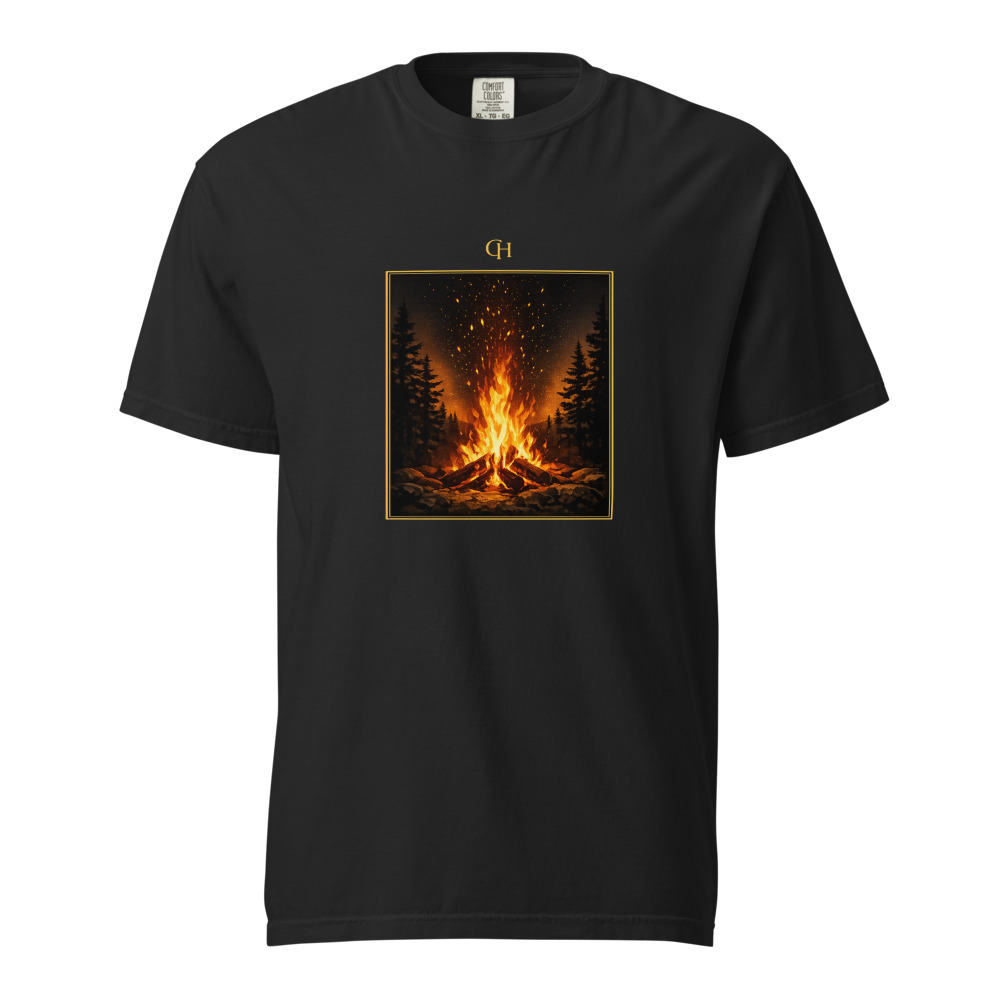
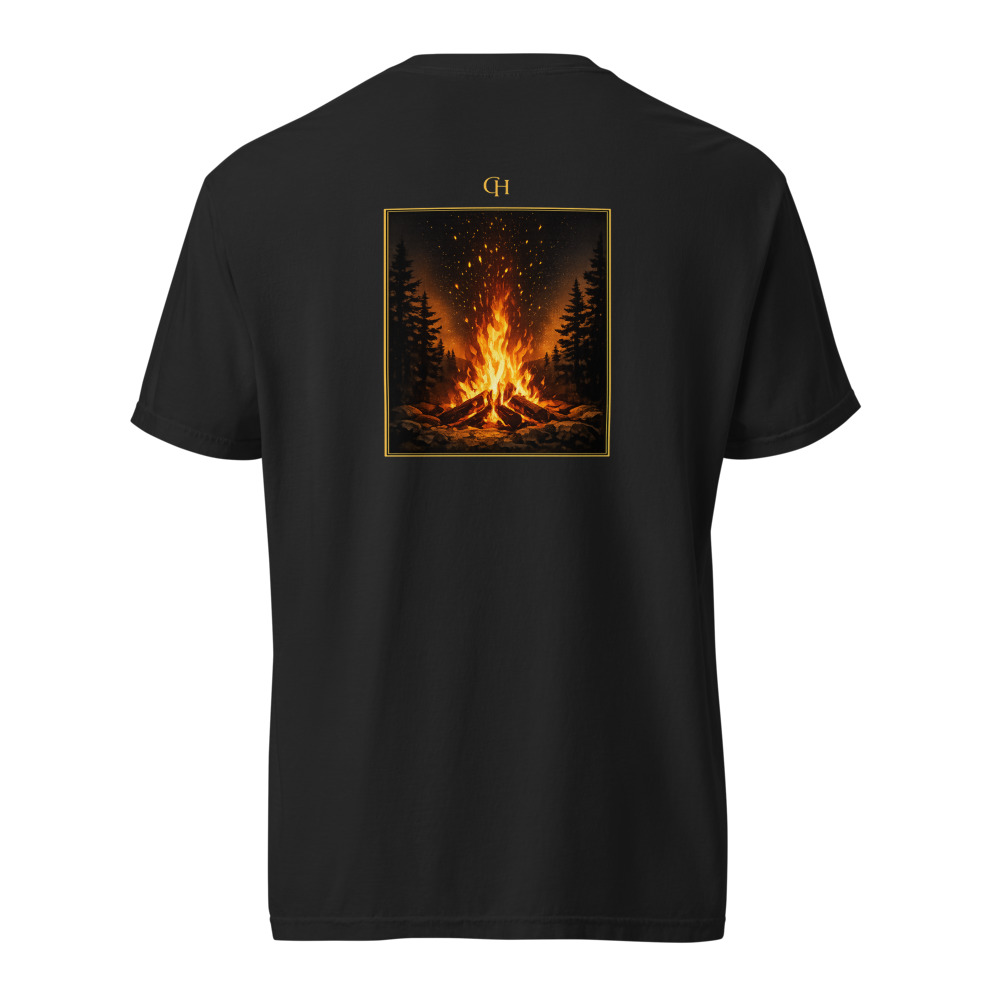
Re-sync Live Each Day hoodie and Scenic Back tee as back prints
Both products are designed as full-back graphics per their descriptions
(sunset-and-dirt-road; framed bonfire), but the initial sync placed the
artwork on the front. The mockups looked wrong and the printed garments
would have shipped with the design on the chest instead of the back.

Fix the script to accept --placement <name> (default "front"), thread it
through generateMockups and createOrFetchSyncProduct, and rename the
printfile lookup to be placement-agnostic. Delete the two front-placed
sync products in Printful, re-run with --placement back. Sync product IDs
in mock-data.ts updated accordingly.

diff --git a/src/lib/mock-data.ts b/src/lib/mock-data.ts
@@ -64,6 +64,14 @@ export const MOCK_PRODUCTS: Product[] = [
       "M": 5324368981,
       "S": 5324368982,
       "XL": 5324368983,
+    printfulVariantIds: {
+      "2XL": 5324426412,
+      "3XL": 5324426413,
+      "L": 5324426414,
+      "M": 5324426415,
+      "S": 5324426416,
+      "XL": 5324426417,
+    },
     },
   },
   {
@@ -259,6 +267,15 @@ export const MOCK_PRODUCTS: Product[] = [
       "M": 5324419106,
       "S": 5324419107,
       "XL": 5324419108,
+    printfulVariantIds: {
+      "2XL": 5324426013,
+      "3XL": 5324426014,
+      "4XL": 5324426015,
+      "L": 5324426018,
+      "M": 5324426019,
+      "S": 5324426020,
+      "XL": 5324426022,
+    },
     },
   },
   {